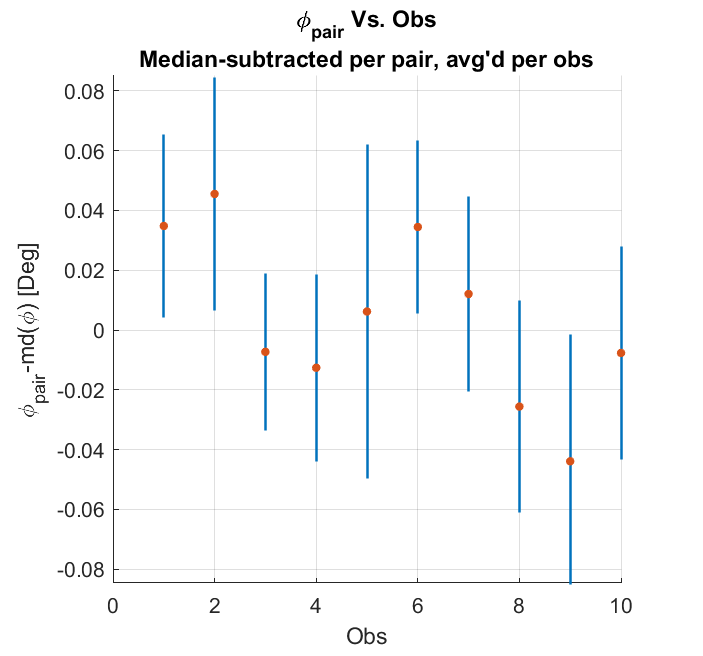
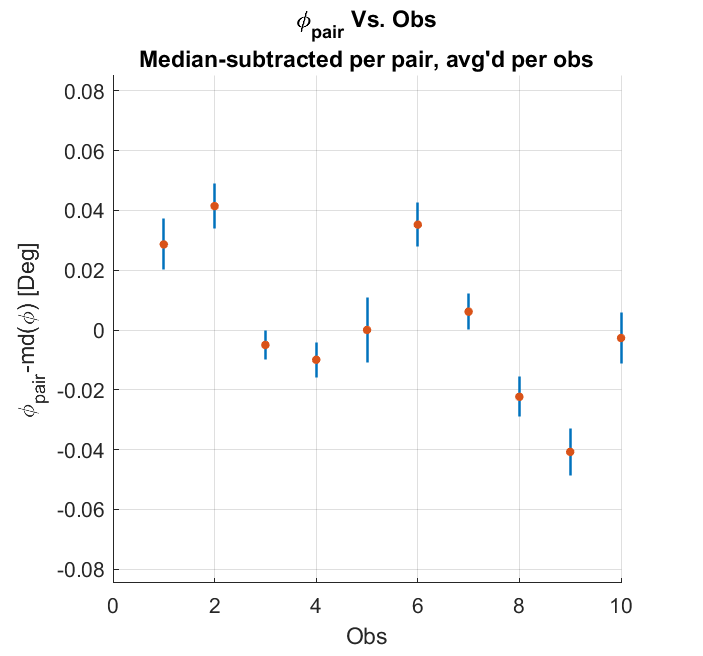
update to pol angle posting.

diff --git a/2022mmdd_rps_angles_xpol/index.html b/2022mmdd_rps_angles_xpol/index.html
@@ -653,25 +653,44 @@ To discuss: <a href="#abanticorr">A/B anticorrelations</a>
         </figcaption>
     </figure>
 
-    <!--
-    <h3 id="phivsobs">Overall Pair Angle fluctuation per-Obs</h3>
-
-    <p>We see fluctuations on the per-pair angle averaged over all pairs in a given observation of ~0.04&deg;.
-        Because we have a ~1.5 degree spread in angle across the focal plane, a shift of O(0.04&deg;) is easy to miss unless you subtract the median angle for that pair across all observations before averaging across pairs within a single observation.</p>
-
-    <p>The plot below shows the $\phi_{pair}$ median-subtracted per-pair and then averaged per-observation. The error bars are the 1&sigma; standard deviations of the median-subtracted distributions. </p>
+    <p>
+        When combined into pairs, this effect translates into a scatter on angles of 0.06&deg; but imparts no bias on the mean as seen in the figure below. And of course, when we average further over all ten observations, the resulting uncertainty drops to 0.06/&radic;10 = 0.019&deg;.
+    </p>
 
     <figure>
-        <img src="figs/phi_pair_vs_obs_medsub.png" width="70%">
+        <img src="figs/pair_hist_corrsim.png" width="60%">
         <figcaption>
 
         </figcaption>
+
     </figure>
 
-    <p>The major question that needs to be answered is whether we are confident that the value these angles average down to is the right one. Perhaps it would be best to include this 0.04&deg; fluctuation in our systematic uncertainty just to be safe?</p>
-    <p>So far, I have not been able to find any correlations with these offsets that would point to a particular systematic (correlating with DK angle, for instance).</p>
+        <h3 id="phivsobs">Overall Pair Angle fluctuation per-Obs</h3>
 
--->
+        <p>
+            That said, when we look at A vs. B between each observation we do see some fluctuation in the mean of the whole distribution up to 0.1&deg; which is not predicted by the correlated noise discussed above. The plot below is the same plot as Fig. 4.2 in the previous section, but we're now averaging the A and B detectors per observation. The error bars are the errors-on-the-mean of the distributions.
+        </p>
+
+    <figure>
+        <img src="figs/mean_pol90_vs_pol0_type5.png">
+        <figcaption>
+            Same plot as Fig 4.2 except the distributions are averaged per observation. Error bars are the Error-on-the-means of the distributions.
+        </figcaption>
+    </figure>
+
+    <p>When combined into pairs, this translates to a fluctuation in angle of up to ~0.04&deg;. The plot below shows the $\phi_{pair}$ median-subtracted per-pair and then averaged per-observation. The error bars are the 5&times; the error-on-the-means. </p>
+
+        <figure>
+            <img src="figs/phi_pair_vs_obs_medsub.png" width="70%">
+            <figcaption>
+
+            </figcaption>
+        </figure>
+
+        <p>Unfortunately, I haven't been able to find anything in the data or think of anything that explains this fluctuation. My proposal is to include an addition 0.04&deg; to account for it.</p>
+        <p>So far, I have not been able to find any correlations with these offsets that would point to a particular systematic (correlating with DK angle, for instance).</p>
+
+
 
 </section>
 

diff --git a/2022mmdd_rps_angles_xpol/scripts/posting_plots_rps_analysis_2.m b/2022mmdd_rps_angles_xpol/scripts/posting_plots_rps_analysis_2.m
@@ -48,7 +48,7 @@ fd_2018 = fd;
 fd_2018 = get_pair_params(fd_2018,ind0,ind90);
 [fd_2018, phis_2018, phi_pair_2018, xpols_2018, poleff_pair_2018,~,~,~] = get_pol_params_per_obs(fd_2018,p);
 
-%%
+%
 clc
 load('z:/dev/rps/rps_obs_info.mat')
 %load('z:/dev/rps/rps_beam_fits_type5_withbparam.mat')
@@ -61,7 +61,7 @@ fd = rps_cut_fitdata(fd,p,[]);%,1,figdir);
 fd = get_pair_params(fd,ind0,ind90);
 [fd, phis, phi_pair, xpols, poleff_pair,n1s,n2s,amps] = get_pol_params_per_obs(fd,p,scheds);
 
-%%
+%
 load('z:/pipeline/beammap/viridis_cm.mat')
 load('z:/dev/rps/sch_type5.mat')
 load('z:/dev/rps/pm.mat')
@@ -359,10 +359,11 @@ end
 %% Angle VS. obs
 %load('z:/dev/rps/rps_phi_final_2022.mat')
 P = phi_pair-repmat(nanmedian(phi_pair,1),10,1);
+L = sum(~isnan(P),2);
 fig = figure(2);
 fig.Position(3:4) = [450 420];
 clf; hold on
-errorbar(1:10,nanmedian(P,2),nanstd(P,[],2),'.','CapSize',0,'LineWidth',1.25)
+errorbar(1:10,nanmedian(P,2),nanstd(P,[],2)./sqrt(L)*5,'.','CapSize',0,'LineWidth',1.25)
 plot(1:10,nanmedian(P,2),'.','MarkerSize',14)
 %plot([-180 180],polyval(C,[-180 180]),'k--')
 
@@ -375,7 +376,7 @@ ylabel({'\phi_{pair}-md(\phi) [Deg]'})
 title({'\phi_{pair} Vs. Obs','Median-subtracted per pair, avg''d per obs'})
 pbaspect([1 1 1])
 fname = 'phi_pair_vs_obs_medsub';
-%saveas(fig,fullfile(figdir,fname),'png')
+saveas(fig,fullfile(figdir,fname),'png')
 
 %% Angle VS. DK overall
 %load('z:/dev/rps/rps_phi_final_2022.mat')
@@ -857,6 +858,44 @@ pbaspect([1 1 1])
 fname = 'pol90_vs_pol0_type5.png';
 %saveas(fig,fullfile(figdir,fname),'png')
 
+%% Plot psi0 vs psi90 but means and with color
+clc
+
+fig = figure(1);
+fig.Position(3:4) = [600 500];
+clf; hold on;
+
+V1 = atand(tand(phis(:,ind0)-nanmedian(phis(:,ind0),1)));
+V2 = atand(tand(phis(:,ind90)-nanmedian(phis(:,ind90),1)));
+legttls = titles;
+%ttls{end+1} = 'Slope=-1';
+lims = [-1 1]*0.12;
+plot(lims,-lims,'--','Color',[1 1 1]*0.75,'LineWidth',1)
+clear z
+for obsind = 1:length(dks)
+    idx = V1(obsind,:)~=0 & V2(obsind,:)~=0;
+    M1 = nanmedian(V1(obsind,idx)');
+    M2 = nanmedian(V2(obsind,idx)');
+    S1 = nanstd(V1(obsind,idx)');
+    S2 = nanstd(V2(obsind,idx)');
+    L = length(find(~isnan(V1(obsind,idx))&~isnan(V2(obsind,idx))));
+    
+    %z(obsind) = plot(V1(obsind,idx)',V2(obsind,idx)','.','MarkerSize',14);%,'Color',cmlines(1,:));
+    z(obsind) = errorbar(M1,M2,S1/sqrt(L),S1/sqrt(L),S2/sqrt(L),S2/sqrt(L),'.','MarkerSize',20,'CapSize',0,'LineWidth',1,'Color',cmlines(obsind,:));
+end
+xlim(lims)
+ylim(lims)
+grid on
+xlabel({'Mean \phi_{d,0}-Md(\phi_{d,0}) [Degrees]',''})
+ylabel({'','Mean \phi_{d,90}-Md(\phi_{d,90}) [Degrees]'})
+%leg = legend(z,legttls);
+%title(leg,'DK''s:')
+title('Mean Pol 90 Vs Pol 0')
+pbaspect([1 1 1])
+
+fname = 'mean_pol90_vs_pol0_type5.png';
+saveas(fig,fullfile(figdir,fname),'png')
+
 %% Now plot the covariance vs DK
 [C D] = deal([]);
 for obsind = 1:length(dks)
@@ -1079,11 +1118,30 @@ text(0.1,0.4,{sprintf('0/90 Cov: %1.3f [Deg^2]',C(1,2))...
 fname = 'pol90_vs_pol0_sim.png';
 %saveas(fig,fullfile(figdir,fname),'png')
 
-%%
+%% Make a histogram of the sim'd per-pair angles
 clf;
 [Ppair,Peff] = calc_pair_diff_pol(Pa,Pb,zeros(size(Pa)),zeros(size(Pb)));
-hist(Ppair)
-std(Ppair)
+%Ppair = nanmean([Pa; Pb],1)-45;
+
+fig = figure(995753);
+fig.Position(3:4) = [600 500];
+clf; hold on;
+
+edges = linspace(-1,1,30)*0.30;
+N = histc(Ppair,edges);
+b = bar(edges, N, 'histc');
+M = mean(Ppair);
+S = std(Ppair);
+L = length(Ppair);
+grid on
+xlim([edges([1 end])])
+title({'Histogram of Pairs fit to Mod Curves',...
+    'with Sim''d Corr. Amp-scaling Noise',...
+    sprintf('M: %0.4f | S: %0.3f | EOM: %0.4f',M,S,S/sqrt(L))...
+    })
+xlabel('\phi_{pair} [Deg]')
+fname = 'pair_hist_corrsim.png';
+saveas(fig,fullfile(figdir,fname),'png')
 
 
 %% Grab the mod curves for A/B dets 
@@ -1199,84 +1257,6 @@ end
 toc
 
 
-%% Angle jacks ... drop this for now.
-% Gotta come up with a better method for this.
-
-mxfev = 100000;
-mxiter = 100000;
-options = optimset('TolFun',1e-10,'MaxIter',mxiter,'MaxFunEvals',mxfev,'Display','off');
-
-clc
-[jack1, jack2] = deal(NaN(length(fd.ch),5));
-tic;
-for chind = 1:length(fd.ch)
-    %if ~isnan(fd.obsnum(chind)) & ismember(dks(fd.obsnum(chind)),[0,90])
-    ch = fd.ch(chind);
-    A = fd.bparam{chind}(6:end);
-    rot_adj = fd.rot{chind}+fd.phi_s(chind);
-    %rot_adj = fd.rot{chind}-dks(fd.obsnum(chind))+90;
-    %angguess = atand(tand(p.chi(ch)+p.chi_thetaref(ch)));
-    parm0 = [fd.phi(chind),fd.xpol(chind), fd.n1(chind), fd.n2(chind),fd.Amp(chind)];
-    lb = [-20 -1e-6 -1e-6 -1e-6 -1e-5] + parm0;
-    ub = [20 1e-6 1e-6 1e-6 1e-5]+parm0;
-    %lb = [-20 -0.5 -10 -10 -10]+parm0;
-    %ub = [20 0.5 10 10 10]+parm0;
-    guess = parm0;
-
-    if fd.nrots(chind) == 13
-        idx = sign(cosd(rot_adj+45))>0;
-        jack1(chind,:) = lsqcurvefit(@rps_get_mod_model,guess,rot_adj(idx),A(idx),lb,ub,options);
-        jack2(chind,:) = lsqcurvefit(@rps_get_mod_model,guess,rot_adj(~idx),A(~idx),lb,ub,options);
-    end
-    %end
-end
-toc
-scatter(1:length(fd.ch),jack1(:,1)-jack2(:,1),12,fd.dk_cen,'filled')
-
-%% Angle jacks with type 9's ... drop this for now.
-% Gotta come up with a better method for this.
-
-mxfev = 100000;
-mxiter = 100000;
-options = optimset('TolFun',1e-10,'MaxIter',mxiter,'MaxFunEvals',mxfev,'Display','off');
-
-clc
-[jack1, jack2] = deal(NaN(length(fd_type9.ch),5));
-phi = [];
-tic;
-for chind = 1:length(fd_type9.ch)
-    %if ~isnan(fd_type9.obsnum(chind)) & ismember(dks(fd_type9.obsnum(chind)),[0,90])
-    ch = fd_type9.ch(chind);
-    A = fd_type9.bparam{chind}(6:end);
-    rot_adj = fd_type9.rot{chind}+fd_type9.phi_s(chind);
-    %rot_adj = fd_type9.rot{chind}-dks(fd_type9.obsnum(chind))+90;
-    %angguess = atand(tand(p.chi(ch)+p.chi_thetaref(ch)));
-    parm0 = [fd_type9.phi(chind),fd_type9.xpol(chind), fd_type9.n1(chind), fd_type9.n2(chind),fd_type9.Amp(chind)];
-    lb = [-20 -1e-6 -1e-6 -1e-6 -1e-5] + parm0;
-    ub = [20 1e-6 1e-6 1e-6 1e-5]+parm0;
-    %lb = [-20 -0.5 -10 -10 -10]+parm0;
-    %ub = [20 0.5 10 10 10]+parm0;
-    guess = parm0;
-    phi(end+1) = fd_type9.phi(chind);
-    if fd_type9.nrots(chind) == 37
-
-        idx = sign(cosd(rot_adj+45))>0;
-        idx2 = ~idx;
-        %idx = 2:3:length(rot_adj);
-        %idx2 = 3:3:length(rot_adj);
-        jack1(chind,:) = lsqcurvefit(@rps_get_mod_model,guess,rot_adj(idx),A(idx),lb,ub,options);
-        jack2(chind,:) = lsqcurvefit(@rps_get_mod_model,guess,rot_adj(idx2),A(idx2),lb,ub,options);
-    end
-    %end
-end
-toc
-
-clf; hold on;
-%scatter(1:length(fd_type9.ch),jack1(:,1)-jack2(:,1),12,fd_type9.dk_cen,'filled')
-scatter(1:length(fd_type9.ch),phi'-jack1(:,1),12,'filled','Color',cmlines(1,:))
-scatter(1:length(fd_type9.ch),phi'-jack2(:,1),12,'filled','Color',cmlines(2,:))
-%idx = fd_type9.nrots == 37;
-%scatter(1:length(fd_type9.ch)(idx),fd_type9.phi(idx),12,fd_type9.dk_cen,'filled')
 
 
 %% Calculate phi_s_prime
